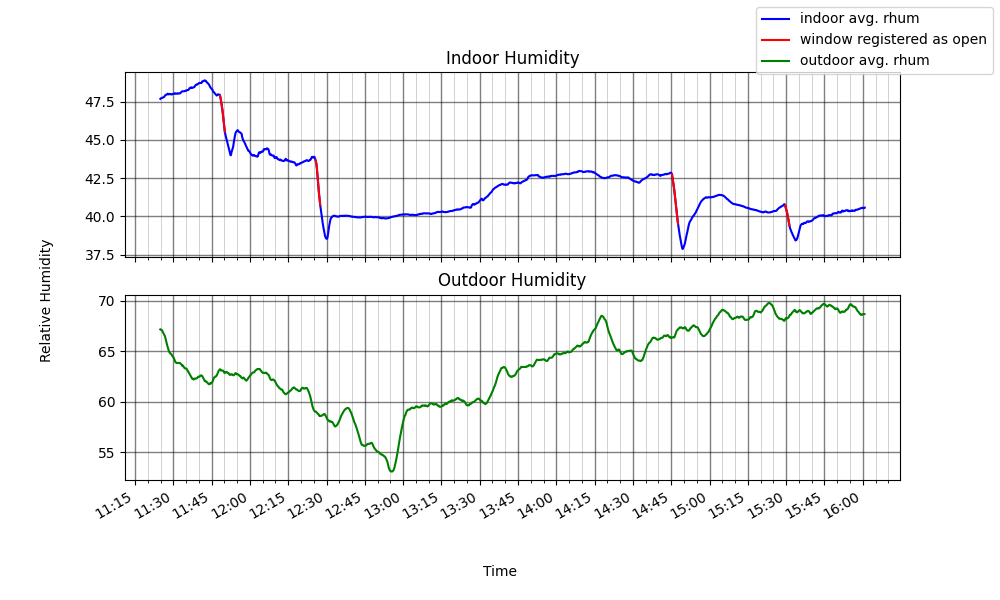
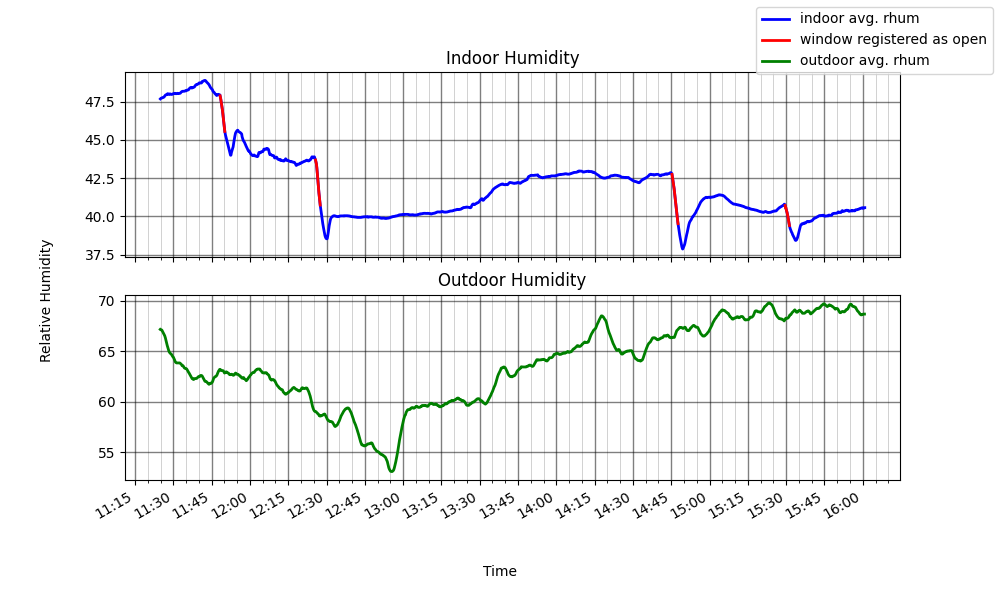
added support for live data with matplotlib animation

diff --git a/DataProcessor/humiPlot.py b/DataProcessor/humiPlot.py
@@ -1,10 +1,10 @@
-import matplotlib.pyplot as plt
-import matplotlib.dates as mdates
-from matplotlib import rcParams
-import numpy as np
 import csv
 import re
 from datetime import datetime
+
+import matplotlib.animation as animation
+import matplotlib.dates as mdates
+import matplotlib.pyplot as plt
 
 x1 = []
 rhum = []
@@ -13,54 +13,63 @@ window = []
 x2 = []
 outAvgHum = []
 
-minutes = mdates.MinuteLocator(byminute=[0,5,10,15,20,25,30,35,40,45,50,55], interval=1)
-qMinutes = mdates.MinuteLocator(byminute=[0,15,30,45], interval=1)
+minutes = mdates.MinuteLocator(byminute=[0, 5, 10, 15, 20, 25, 30, 35, 40, 45, 50, 55], interval=1)
+qMinutes = mdates.MinuteLocator(byminute=[0, 15, 30, 45], interval=1)
 hours = mdates.HourLocator()
+# noinspection SpellCheckingInspection
 xformatter = mdates.DateFormatter('%H:%M')
 
-with open('data/indoorlog.csv','r') as csvfile:
-    plots = csv.reader(csvfile, delimiter=',')
-    for row in plots:
-        stime = re.search('\d\d:\d\d:\d\d', str(row[0])).group()
-        x1.append(datetime.strptime(stime, '%H:%M:%S'))
-        rhum.append(float(row[1]))
-        avghum.append(float(row[2]))
-        if int(row[4]) == 1:
-            window.append(float(row[2]))
-        else:
-            window.append(None)
+fig, (ax1, ax2) = plt.subplots(2, sharex='all', figsize=(10, 6))
 
-with open('data/outdoorlog.csv','r') as csvfile:
-    plots = csv.reader(csvfile, delimiter=',')
-    for row in plots:
-        stime = re.search('\d\d:\d\d:\d\d', str(row[0])).group()
-        x2.append(datetime.strptime(stime, '%H:%M:%S'))
-        outAvgHum.append(float(row[2]))
 
-fig, (ax1, ax2) = plt.subplots(2, sharex='all', figsize=(10,6))
+def animate(i):
+    with open('data/indoorlog.csv', 'r') as csvfile:
+        plots = csv.reader(csvfile, delimiter=',')
+        for row in plots:
+            stime = re.search('\d\d:\d\d:\d\d', str(row[0])).group()
+            x1.append(datetime.strptime(stime, '%H:%M:%S'))
+            rhum.append(float(row[1]))
+            avghum.append(float(row[2]))
+            if int(row[4]) == 1:
+                window.append(float(row[2]))
+            else:
+                window.append(None)
 
-ax1.plot(x1, avghum, label='indoor avg. rhum', color='blue')
-ax1.plot(x1, window, label='window registered as open', color='red')
-ax2.plot(x2, outAvgHum, label='outdoor avg. rhum', color='green')
+    with open('data/outdoorlog.csv', 'r') as csvfile:
+        plots = csv.reader(csvfile, delimiter=',')
+        for row in plots:
+            stime = re.search('\d\d:\d\d:\d\d', str(row[0])).group()
+            x2.append(datetime.strptime(stime, '%H:%M:%S'))
+            outAvgHum.append(float(row[2]))
 
-fig.text(0.5, 0.04, 'Time', ha='center')
-fig.text(0.04, 0.5, 'Relative Humidity', va='center', rotation='vertical')
-ax1.xaxis.set_major_locator(qMinutes)
-ax1.xaxis.set_minor_locator(minutes)
-ax2.xaxis.set_major_locator(qMinutes)
-ax2.xaxis.set_minor_locator(minutes)
-ax1.xaxis.set_major_formatter(xformatter)
-ax2.xaxis.set_major_formatter(xformatter)
+    ax1.clear()
+    ax2.clear()
 
-ax1.grid(which='major', color='black', linestyle='-', linewidth=1, alpha=0.5)
-ax1.grid(which='minor', color='gray', linestyle='-', linewidth=0.5, alpha=0.5)
-ax2.grid(which='major', color='black', linestyle='-', linewidth=1, alpha=0.5)
-ax2.grid(which='minor', color='gray', linestyle='-', linewidth=0.5, alpha=0.5)
+    ax1.plot(x1, avghum, label='indoor avg. rhum', color='blue', linewidth=2)
+    ax1.plot(x1, window, label='window registered as open', color='red', linewidth=2)
+    ax2.plot(x2, outAvgHum, label='outdoor avg. rhum', color='green', linewidth=2)
 
-fig.autofmt_xdate()
+    fig.text(0.5, 0.04, 'Time', ha='center')
+    fig.text(0.04, 0.5, 'Relative Humidity', va='center', rotation='vertical')
+    ax1.xaxis.set_major_locator(qMinutes)
+    ax1.xaxis.set_minor_locator(minutes)
+    ax2.xaxis.set_major_locator(qMinutes)
+    ax2.xaxis.set_minor_locator(minutes)
+    ax1.xaxis.set_major_formatter(xformatter)
+    ax2.xaxis.set_major_formatter(xformatter)
 
-ax1.set_title('Indoor Humidity')
-ax2.set_title('Outdoor Humidity')
-fig.legend()
+    ax1.grid(which='major', color='black', linestyle='-', linewidth=1, alpha=0.5)
+    ax1.grid(which='minor', color='gray', linestyle='-', linewidth=0.5, alpha=0.5)
+    ax2.grid(which='major', color='black', linestyle='-', linewidth=1, alpha=0.5)
+    ax2.grid(which='minor', color='gray', linestyle='-', linewidth=0.5, alpha=0.5)
+
+    fig.autofmt_xdate()
+
+    ax1.set_title('Indoor Humidity')
+    ax2.set_title('Outdoor Humidity')
+    fig.legend()
+    fig.savefig(fname='plots/hPlot.png')
+
+
+ani = animation.FuncAnimation(fig, animate, interval=1000)
 plt.show()
-fig.savefig(fname='plots/hPlot.png')
